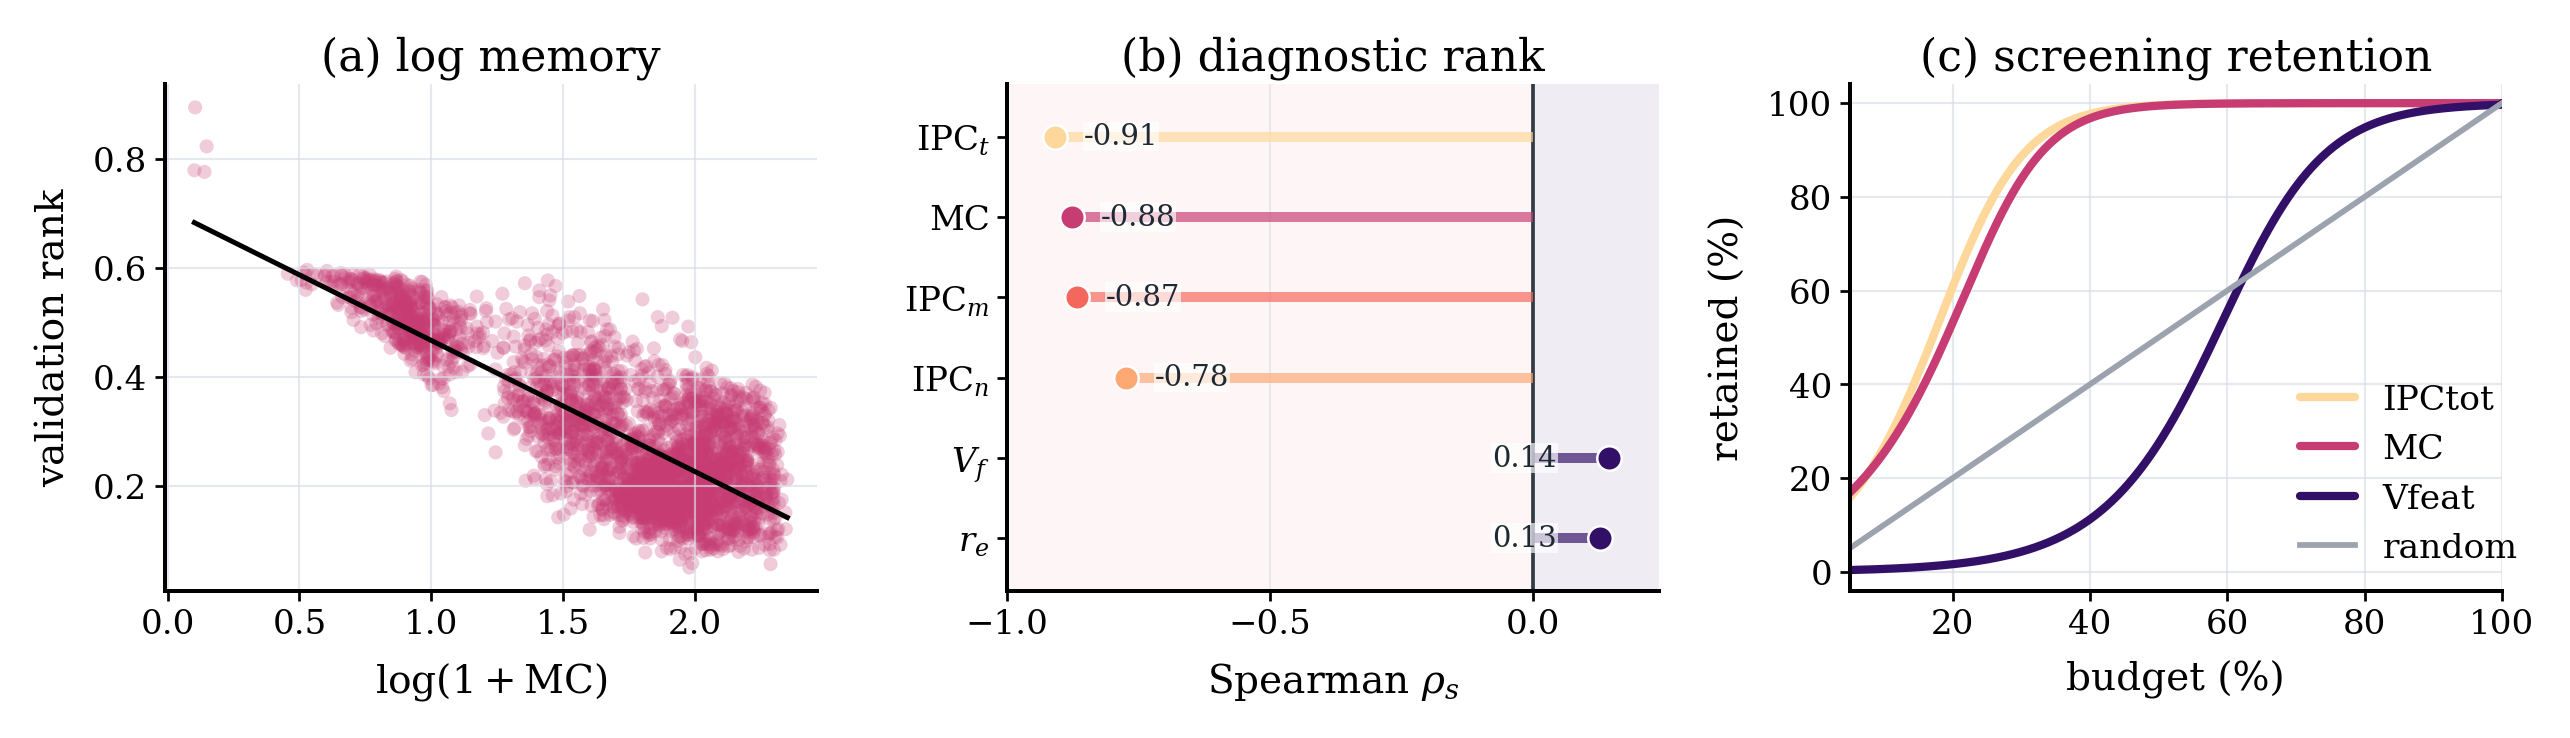
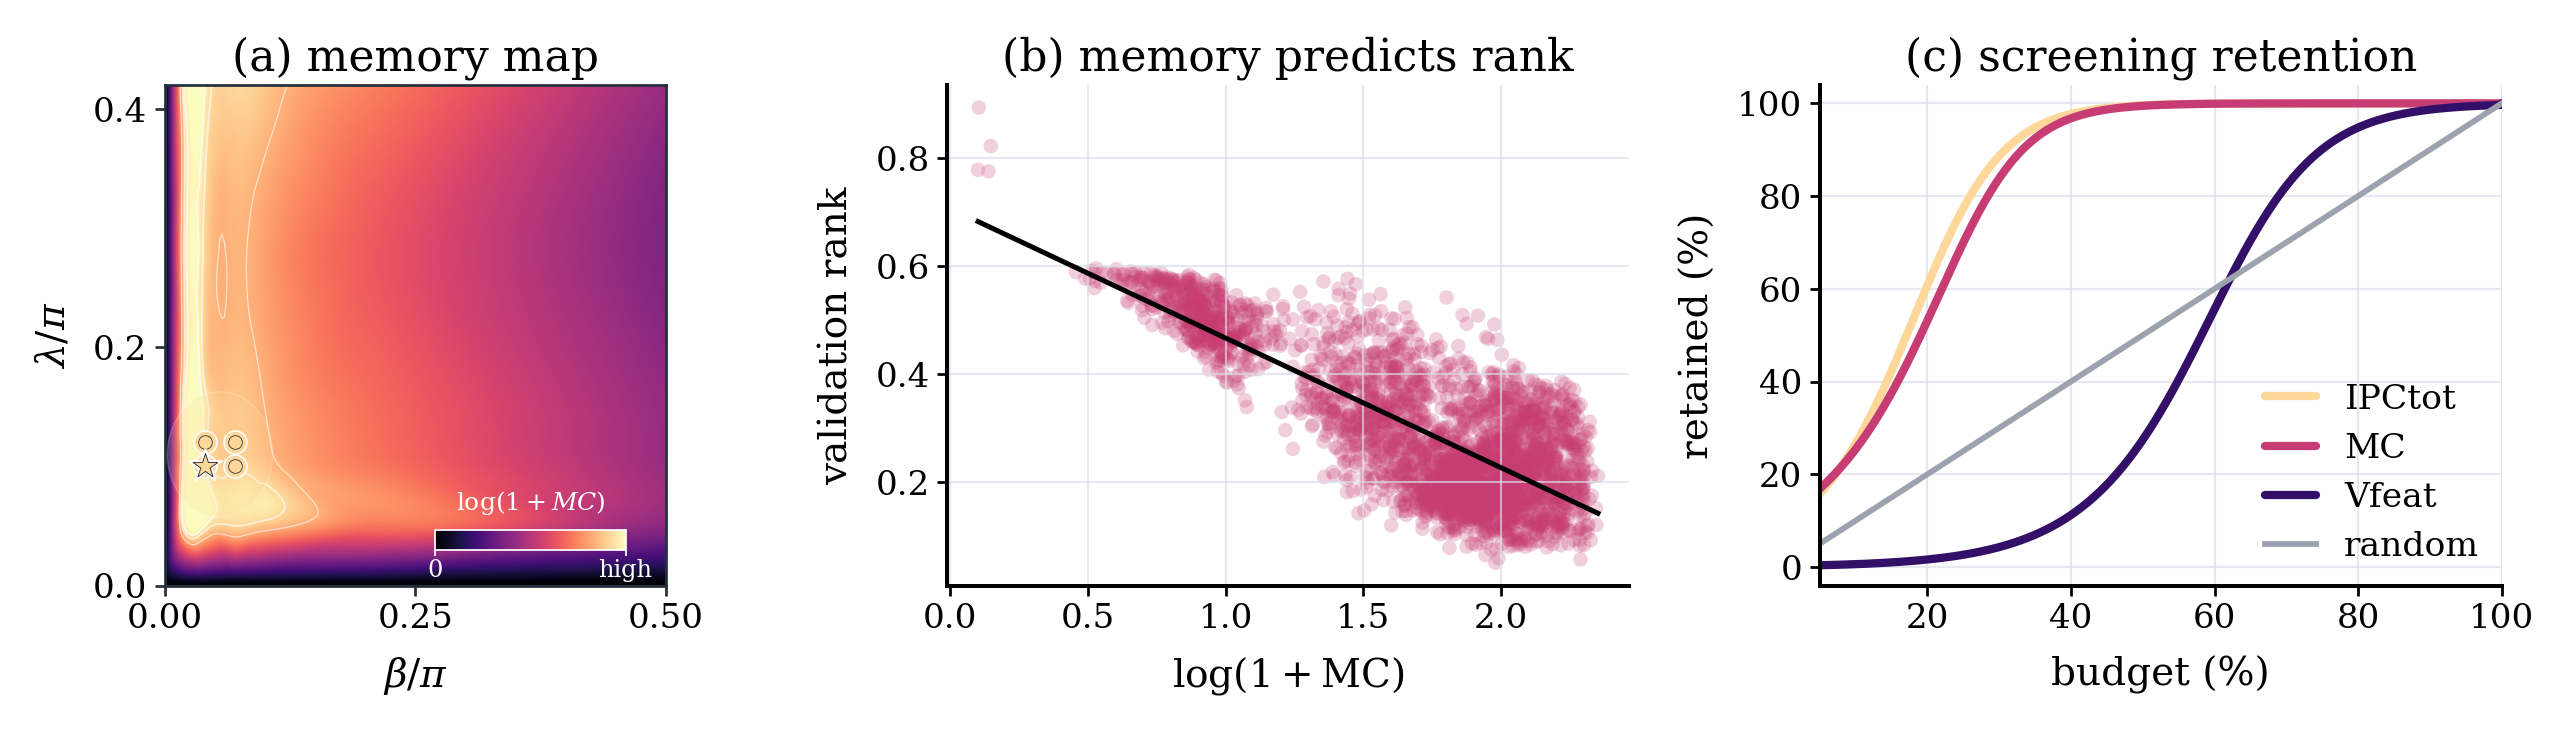
Replace diagnostics figure with memory heatmap

diff --git a/scripts/make_figures_and_build_data.py b/scripts/make_figures_and_build_data.py
@@ -404,50 +404,82 @@ cbar.ax.tick_params(labelsize=6.0, length=2.0, width=0.55, pad=1.6)
 cbar.set_label("rank loss\n(dark = worse)", fontsize=6.2, labelpad=3.5)
 savefig_dual(fig, "fig2_short_evidence")
 
-# Optional QRC-only diagnostic figure retained as a repository artifact.
+# Figure 3: diagnostic memory map, global memory relation, and screening retention.
 screen = pd.read_csv(DATA / "screening_retention_recomputed_intrinsic_diagnostics.csv")
 diag = pd.read_csv(DATA / "qrc_real_current_intrinsic_diagnostics_with_perf.csv")
 diag["logMC"] = np.log1p(diag["MC"])
 spearman = pd.read_csv(DATA / "qrc_real_current_diagnostic_spearman_named.csv")
-fig, axes = plt.subplots(1, 3, figsize=(7.25, 2.18))
+fig, axes = plt.subplots(1, 3, figsize=(7.25, 2.28))
+
+memory_slice = (
+    diag[np.isclose(diag.gamma, gamma_star)]
+    .groupby(["beta_pi", "lambda_pi"])
+    .agg(logMC=("logMC", "mean"))
+    .reset_index()
+)
+ax = axes[0]
+XI, YI, Zs = smooth_grid(
+    memory_slice.beta_pi.values,
+    memory_slice.lambda_pi.values,
+    memory_slice.logMC.values,
+    xmax,
+    ymax,
+    nx=220,
+    ny=180,
+)
+memory_max = float(np.nanpercentile(memory_slice.logMC, 99))
+Zp = np.clip(Zs, 0.0, memory_max)
+memory_im = ax.imshow(
+    Zp,
+    origin="lower",
+    extent=[0, xmax, 0, ymax],
+    cmap=PHASE_FORWARD,
+    vmin=0.0,
+    vmax=memory_max,
+    aspect="auto",
+    interpolation="bicubic",
+    resample=True,
+)
+memory_levels = [float(np.nanpercentile(memory_slice.logMC, p)) for p in [55, 75, 90]]
+safe_contour(ax, XI, YI, Zp, memory_levels, colors="white", linewidths=[0.25, 0.35, 0.45], alpha=0.62)
+plot_band_overlay(ax, primary_slice, selected=selected, marker_scale=0.62)
+ax.set_title("(a) memory map", fontsize=8.8, pad=3)
+ax.set_xlabel(r"$\beta/\pi$", fontsize=7.8)
+ax.set_ylabel(r"$\lambda/\pi$", fontsize=7.8)
+ax.set_xlim(0, xmax)
+ax.set_ylim(0, ymax)
+ax.set_xticks([0.0, 0.25, 0.5])
+ax.set_yticks([0.0, 0.2, 0.4])
+ax.set_box_aspect(1)
+polish_phase_axis(ax, labelsize=6.8)
+memory_cax = ax.inset_axes([0.54, 0.07, 0.38, 0.04])
+memory_cbar = fig.colorbar(memory_im, cax=memory_cax, orientation="horizontal")
+memory_cbar.outline.set_edgecolor("white")
+memory_cbar.outline.set_linewidth(0.35)
+memory_cbar.set_ticks([0.0, memory_max])
+memory_cbar.ax.set_xticklabels(["0", "high"])
+memory_cbar.ax.tick_params(labelsize=4.8, colors="white", length=1.2, width=0.35, pad=0.4)
+memory_cbar.ax.text(
+    0.5,
+    1.70,
+    r"$\log(1+MC)$",
+    transform=memory_cbar.ax.transAxes,
+    ha="center",
+    va="bottom",
+    fontsize=5.0,
+    color="white",
+)
+
 dead_mc_threshold = 0.1
 active_mc = diag[diag.MC > dead_mc_threshold]
-axes[0].scatter(active_mc.logMC, active_mc.mean_val_rank, s=8.0, alpha=0.26, color=PHASE_ROSE, edgecolor="none")
+axes[1].scatter(active_mc.logMC, active_mc.mean_val_rank, s=8.5, alpha=0.24, color=PHASE_ROSE, edgecolor="none")
 z = np.polyfit(active_mc.logMC, active_mc.mean_val_rank, 1)
 xs = np.linspace(active_mc.logMC.min(), active_mc.logMC.max(), 220)
-axes[0].plot(xs, z[0] * xs + z[1], color="black", lw=1.0)
-axes[0].set_title("(a) log memory", fontsize=8.8, pad=3)
-axes[0].set_xlabel(r"$\log(1+\mathrm{MC})$", fontsize=7.8)
-axes[0].set_ylabel("validation rank", fontsize=7.8)
-sp_order = ["IPCtot", "MC", "IPCmem", "IPCnonlin", "Vfeat", "reff"]
-sp_labels = [r"IPC$_t$", "MC", r"IPC$_m$", r"IPC$_n$", r"$V_f$", r"$r_e$"]
-sp = spearman.set_index("metric").reindex(sp_order)
-sp_y = np.arange(len(sp))[::-1]
-sp_colors = [PHASE_GOLD, PHASE_ROSE, PHASE_CORAL, PHASE_AMBER, PHASE_VIOLET, PHASE_VIOLET]
-axes[1].axvspan(-1.0, 0.0, color=PHASE_CORAL, alpha=0.055, lw=0)
-axes[1].axvspan(0.0, 0.25, color=PHASE_VIOLET, alpha=0.075, lw=0)
-axes[1].axvline(0, color=INK, lw=0.75, alpha=0.90)
-for yi, label, val, color in zip(sp_y, sp_labels, sp.spearman_vs_val_rank.to_numpy(dtype=float), sp_colors):
-    axes[1].hlines(yi, min(0.0, val), max(0.0, val), color=color, lw=2.0, alpha=0.68, zorder=2)
-    axes[1].scatter([val], [yi], s=24, color=color, edgecolor="white", linewidth=0.5, zorder=3)
-    x_text = val + 0.055 if val < 0 else 0.045
-    ha = "left" if val < 0 else "right"
-    axes[1].text(
-        x_text,
-        yi,
-        f"{val:.2f}",
-        ha=ha,
-        va="center",
-        fontsize=5.8,
-        color=INK,
-        bbox=dict(facecolor="white", edgecolor="none", alpha=0.66, pad=0.2),
-    )
-axes[1].set_yticks(sp_y, sp_labels)
-axes[1].set_xlim(-1.0, 0.24)
-axes[1].set_xticks([-1.0, -0.5, 0.0])
-axes[1].set_ylim(-0.65, len(sp) - 0.35)
-axes[1].set_title("(b) diagnostic rank", fontsize=8.8, pad=3)
-axes[1].set_xlabel(r"Spearman $\rho_s$", fontsize=7.8)
+axes[1].plot(xs, z[0] * xs + z[1], color="black", lw=1.0)
+axes[1].set_title("(b) memory predicts rank", fontsize=8.8, pad=3)
+axes[1].set_xlabel(r"$\log(1+\mathrm{MC})$", fontsize=7.8)
+axes[1].set_ylabel("validation rank", fontsize=7.8)
+
 screen_x = screen["budget_pct"].to_numpy(dtype=float)
 for col, color in [("IPCtot", PHASE_GOLD), ("MC", PHASE_ROSE), ("Vfeat", PHASE_VIOLET), ("random", "#9ca3af")]:
     screen_y = np.maximum.accumulate(screen[col].to_numpy(dtype=float))
@@ -465,19 +497,15 @@ axes[2].legend(
     frameon=False,
     fontsize=6.9,
     loc="lower right",
-    bbox_to_anchor=(1.045, 0.025),
-    handlelength=1.6,
-    borderaxespad=0.0,
+    handlelength=1.5,
+    borderaxespad=0.25,
 )
 for i, ax in enumerate(axes):
-    if i == 1:
-        ax.xaxis.grid(True, color=GRID, linewidth=0.40, alpha=0.55)
-        ax.yaxis.grid(False)
-    else:
+    if i > 0:
         ax.grid(color=GRID, linewidth=0.42, alpha=0.68)
-    ax.spines[["top", "right"]].set_visible(False)
-    ax.tick_params(labelsize=6.8, length=2.0, width=0.55, pad=1.5)
-fig.tight_layout(w_pad=0.95)
+        ax.spines[["top", "right"]].set_visible(False)
+        ax.tick_params(labelsize=6.8, length=2.0, width=0.55, pad=1.5)
+fig.subplots_adjust(left=0.058, right=0.988, bottom=0.25, top=0.86, wspace=0.28)
 savefig_dual(fig, "fig3_memory_capacity_screens")
 
 summary = {

diff --git a/paper/qrc_phase_diagram.tex b/paper/qrc_phase_diagram.tex
@@ -142,7 +142,7 @@ Variant & Band pts. & Retention & Rank on base band\\
 \begin{figure*}[t!]
 \centering
 \includegraphics[width=0.98\textwidth]{gfx/fig3_memory_capacity_screens.pdf}
-\caption{Diagnostic audit for the QRC phase-map claim. A single log-memory panel expands the non-collapsed memory range and shows the strong monotone relation between retained history and validation rank. Intrinsic processing-capacity diagnostics give the strongest rank correlations, and smooth monotone guides fitted to the empirical screening table show that memory/IPC recovers useful reservoirs earlier than random or diversity-only screens.}
+\caption{Memory-based diagnostics identify the operating region before task-specific search. (a) The task-free memory map shows $\log(1+\mathrm{MC})$ on the same $\gamma=0.12$ control slice as the phase maps. The gold operating-band points lie inside the structured memory-rich region, showing that the band is visible from reservoir dynamics alone. (b) Across all sampled settings and seeds, higher memory predicts lower validation rank, giving a global quantitative version of the same effect. (c) Screening efficiency: the fraction of genuinely good reservoirs retained as a function of how many settings are kept. Screening by memory or information-processing capacity recovers the useful settings far earlier than random selection, while raw feature diversity remains much weaker.}
 \label{fig:diagnostics}
 \end{figure*}
 